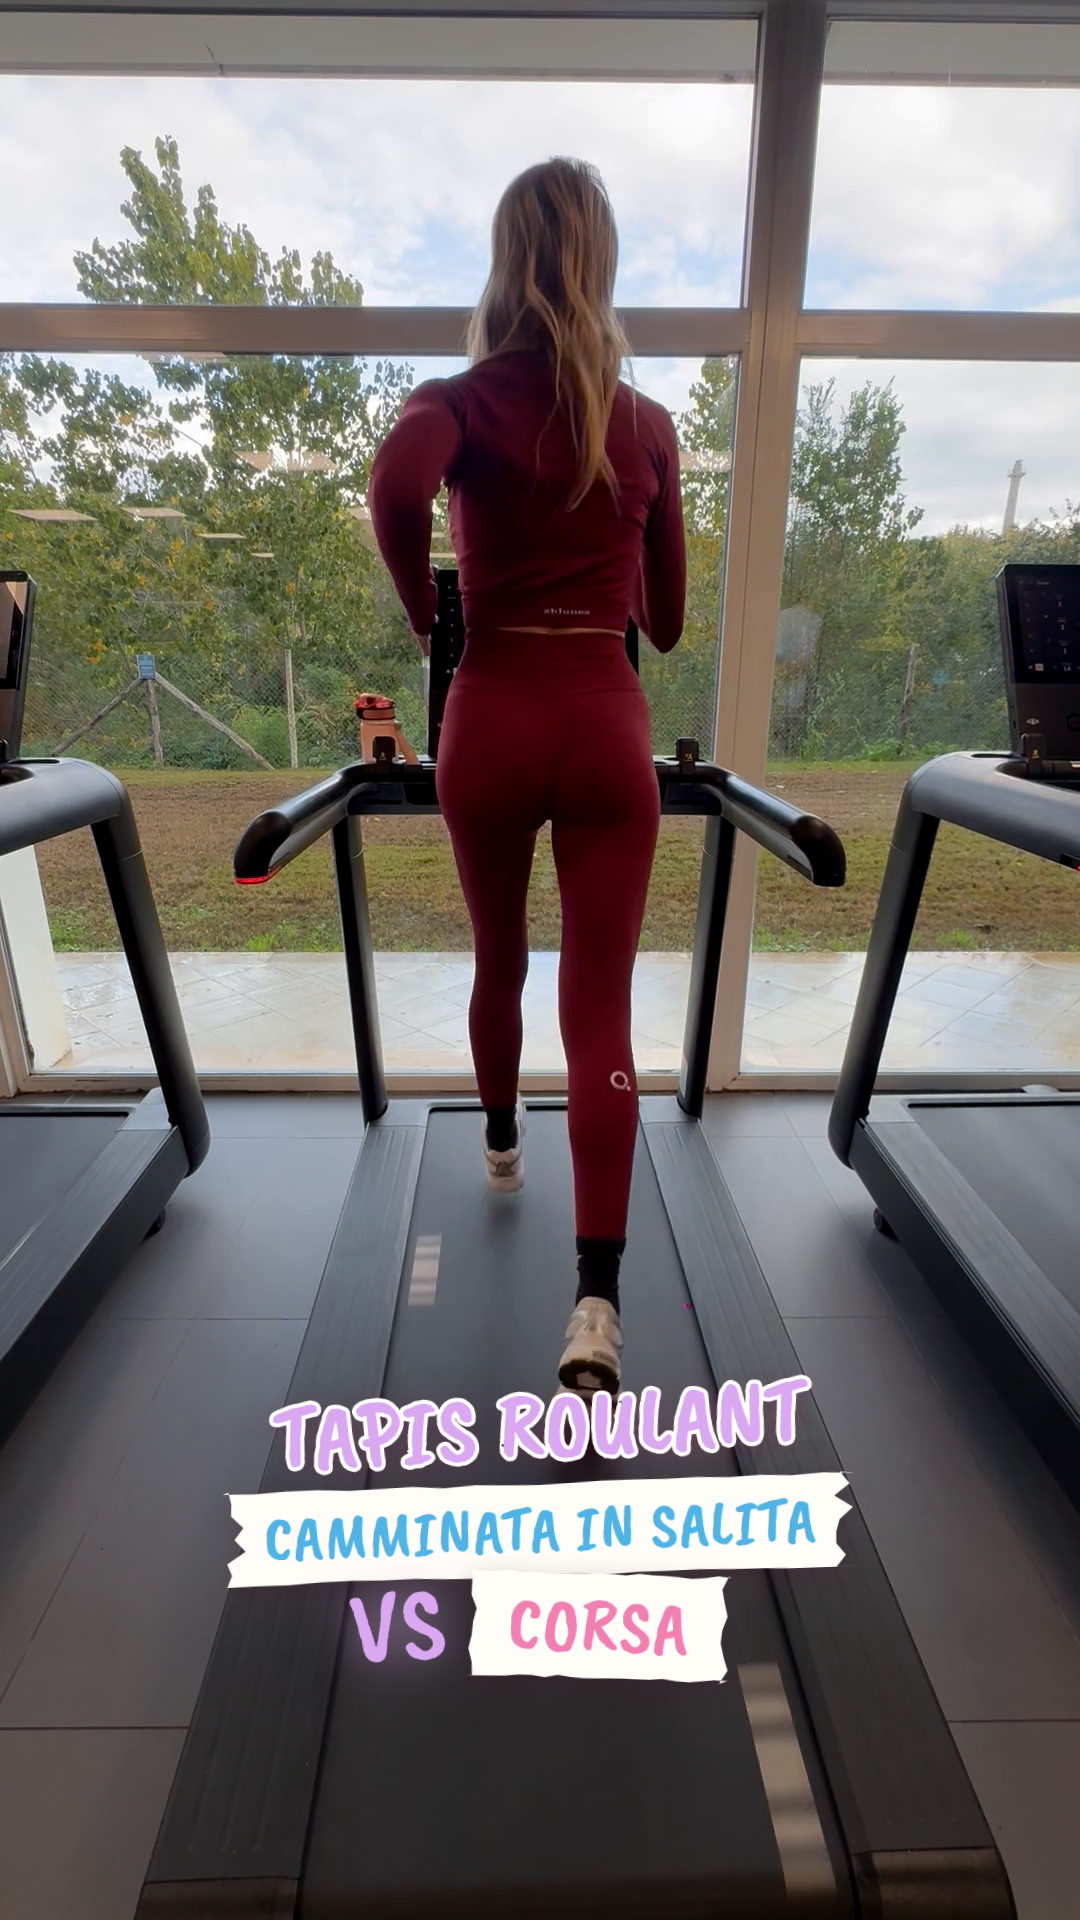
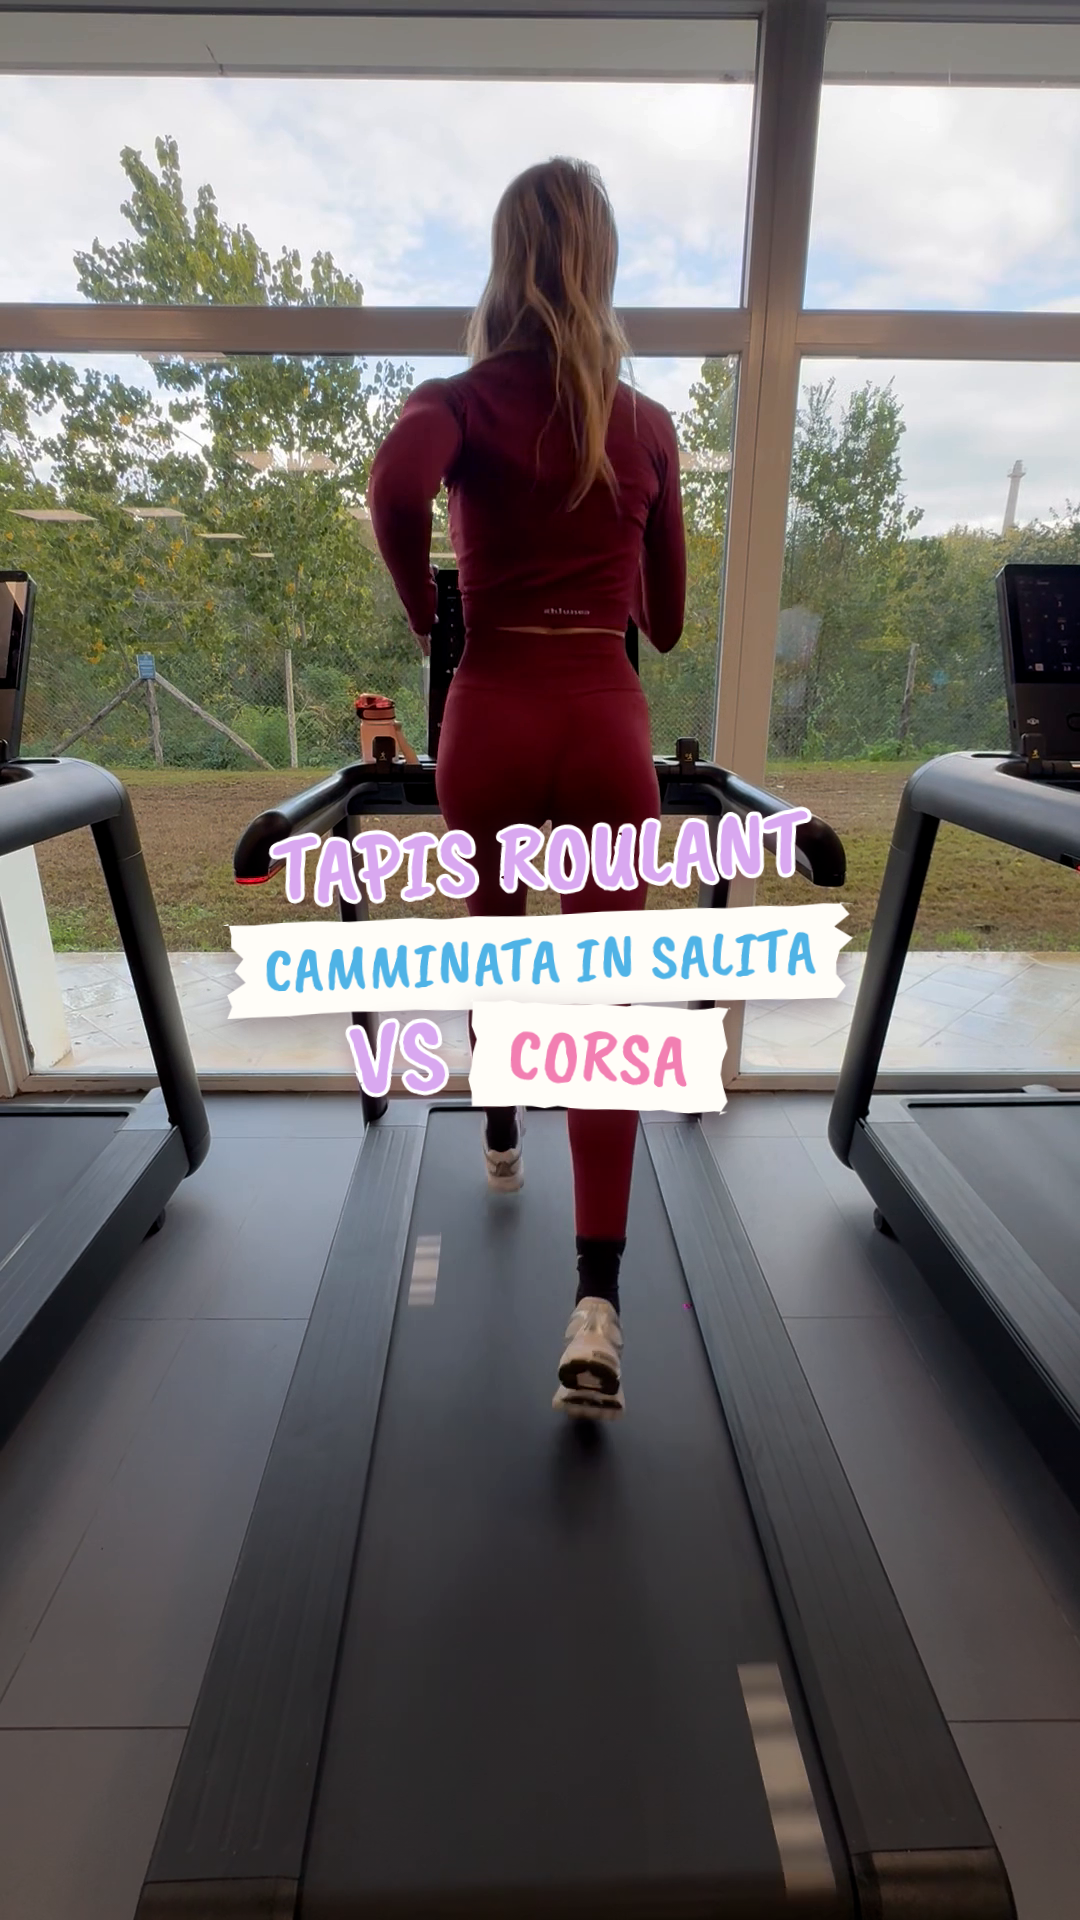
TapisVs cover: title centred
Claude-Session: https://claude.ai/code/session_0137T4JMubY1ECJ8eeHn4dmR

Changed region(s): [[0.2139, 0.4062, 0.7944, 0.5938], [0.2139, 0.7188, 0.7944, 0.875]]

diff --git a/src/TapisVs/index.tsx b/src/TapisVs/index.tsx
@@ -384,8 +384,7 @@ export const TapisVs: React.FC = () => (
 );
 
 // Reel cover: a running frame (public/cover/tapis.png, from a_orig.mp4 at
-// 2.5 s) with the title on the treadmill belt, under her feet, inside the
-// centre 3:4 area kept by the profile grid.
+// 2.5 s) with the title in the centre of the frame.
 const Paper: React.FC<{ seed: number; children: React.ReactNode }> = ({
   seed,
   children,
@@ -418,8 +417,7 @@ export const TapisCover: React.FC = () => (
     <AbsoluteFill
       style={{
         alignItems: "center",
-        justifyContent: "flex-end",
-        paddingBottom: 240,
+        justifyContent: "center",
       }}
     >
       <div style={{ ...hand(LILAC, 92), transform: "rotate(-3deg)" }}>
@@ -449,8 +447,6 @@ export const TapisCover: React.FC = () => (
         <div
           style={{
             ...hand(LILAC, 104),
-            WebkitTextStroke: "0px",
-            filter: "drop-shadow(0 0 24px rgba(217,168,240,0.7))",
             transform: "rotate(-8deg)",
           }}
         >
